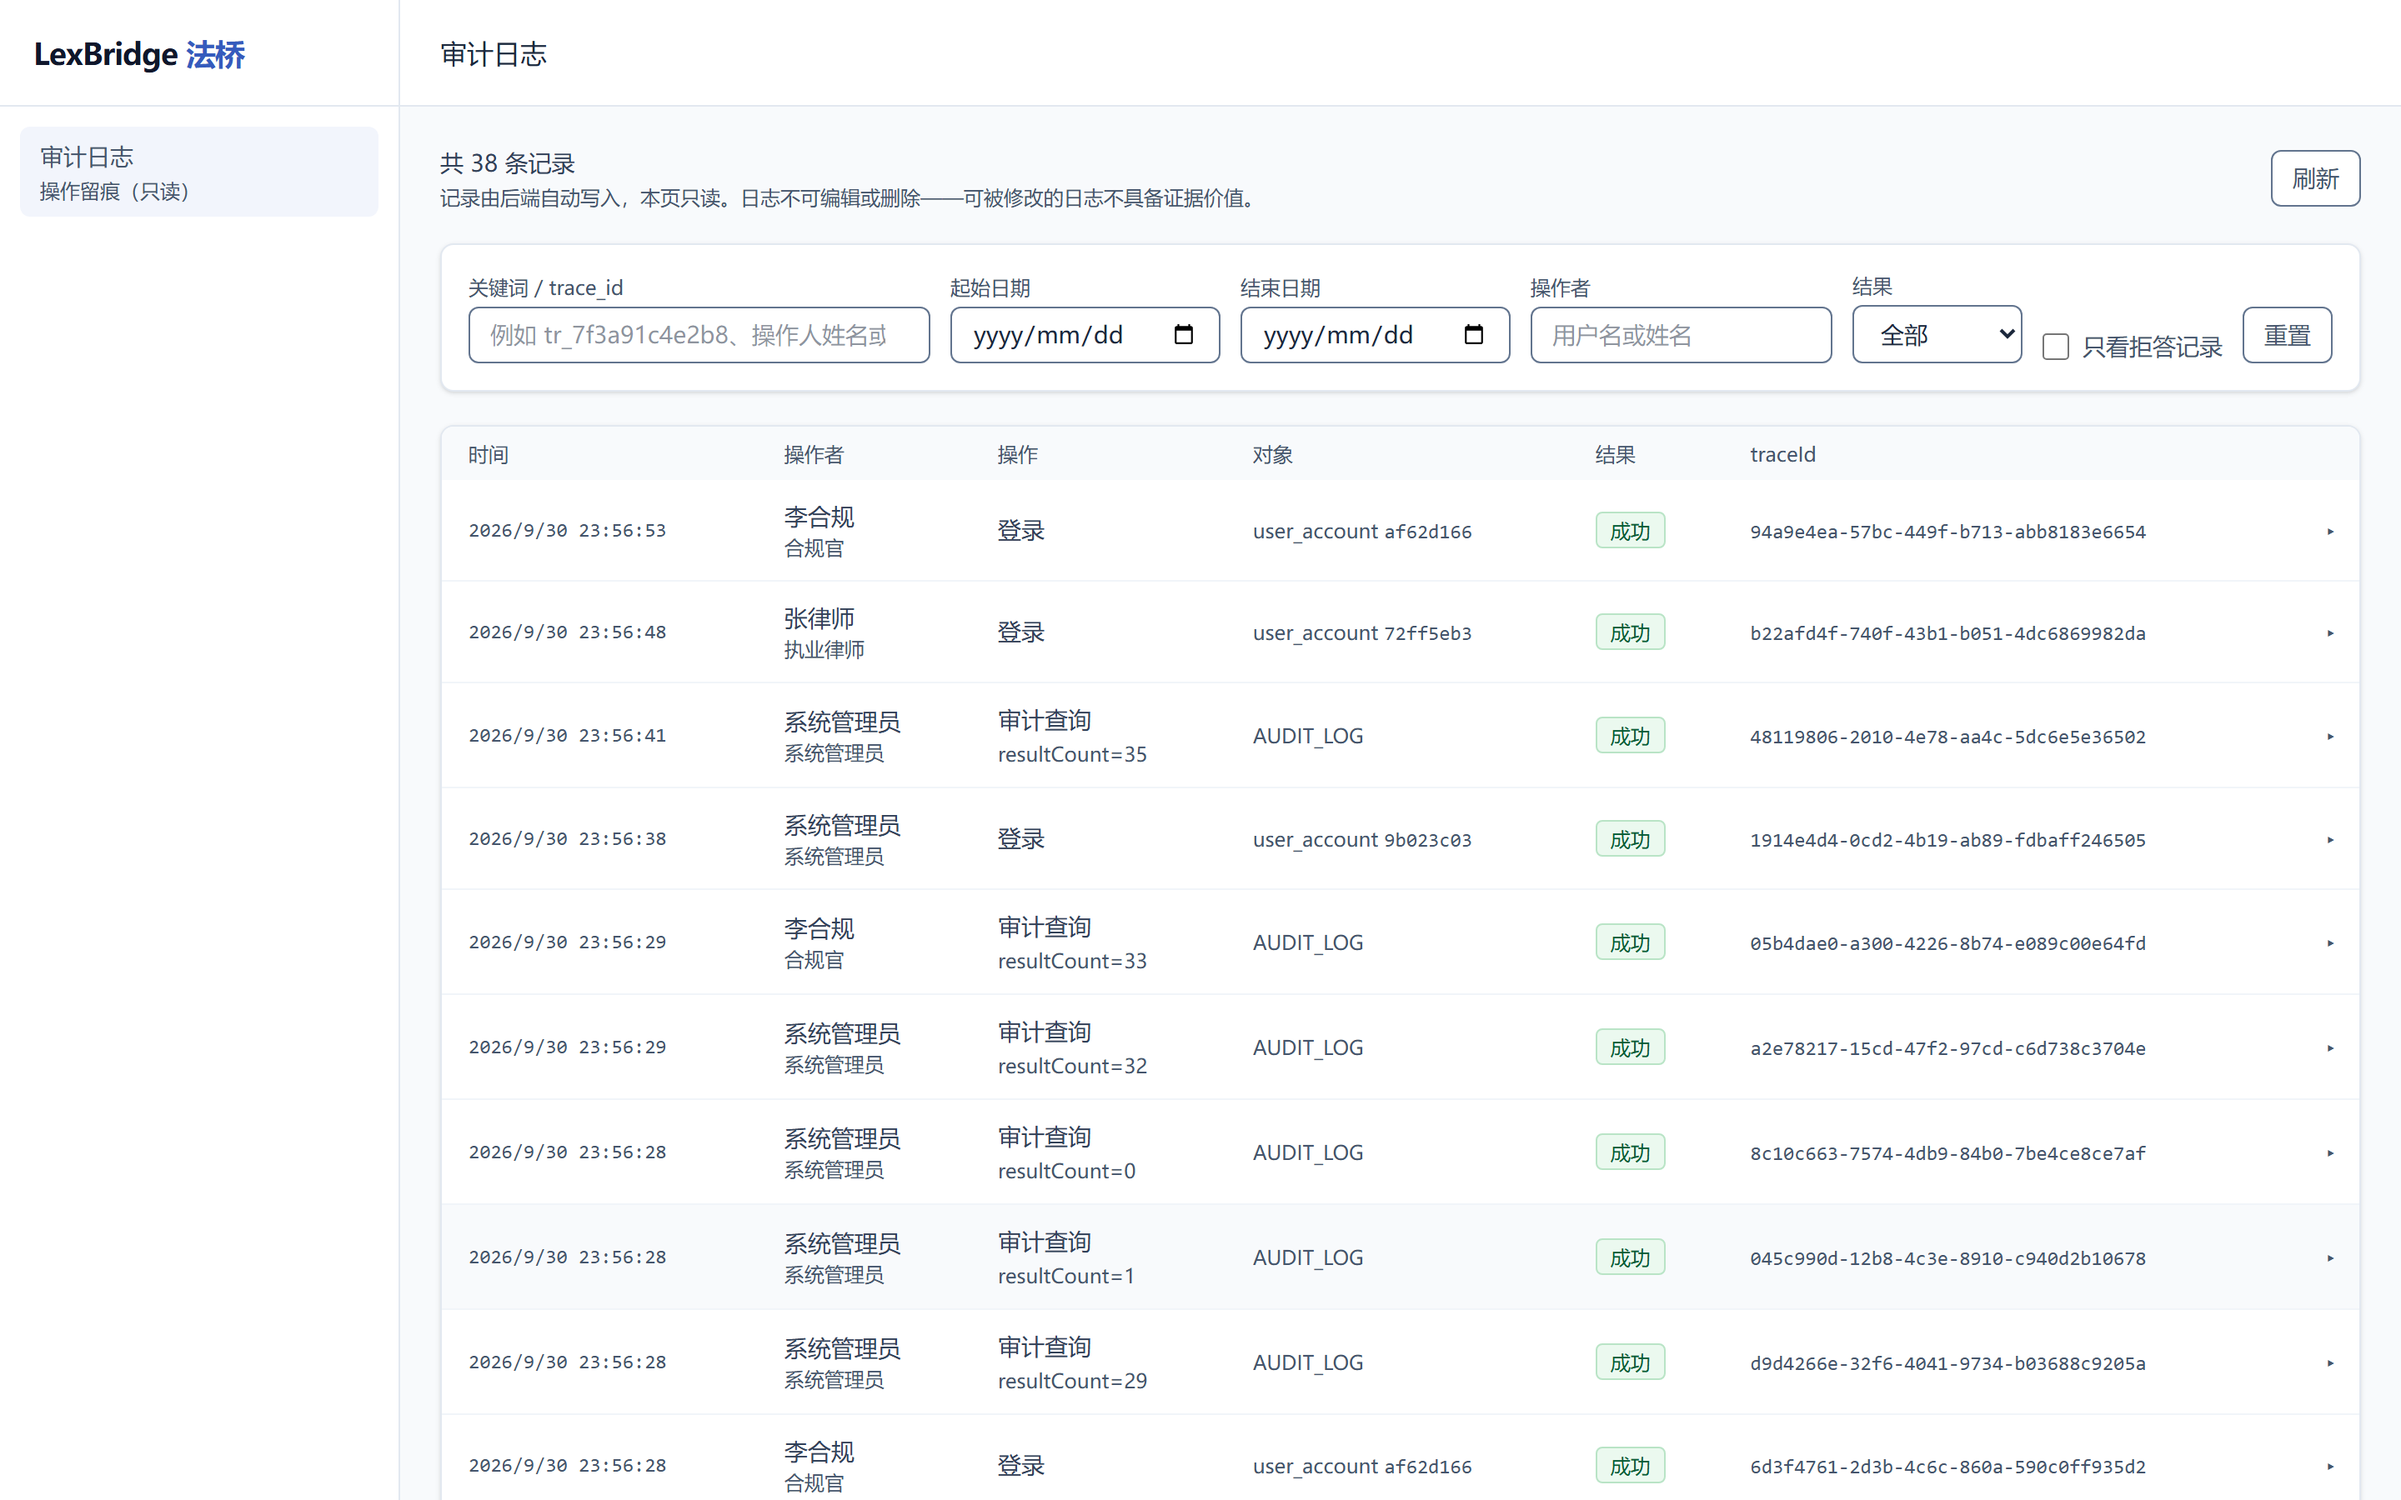
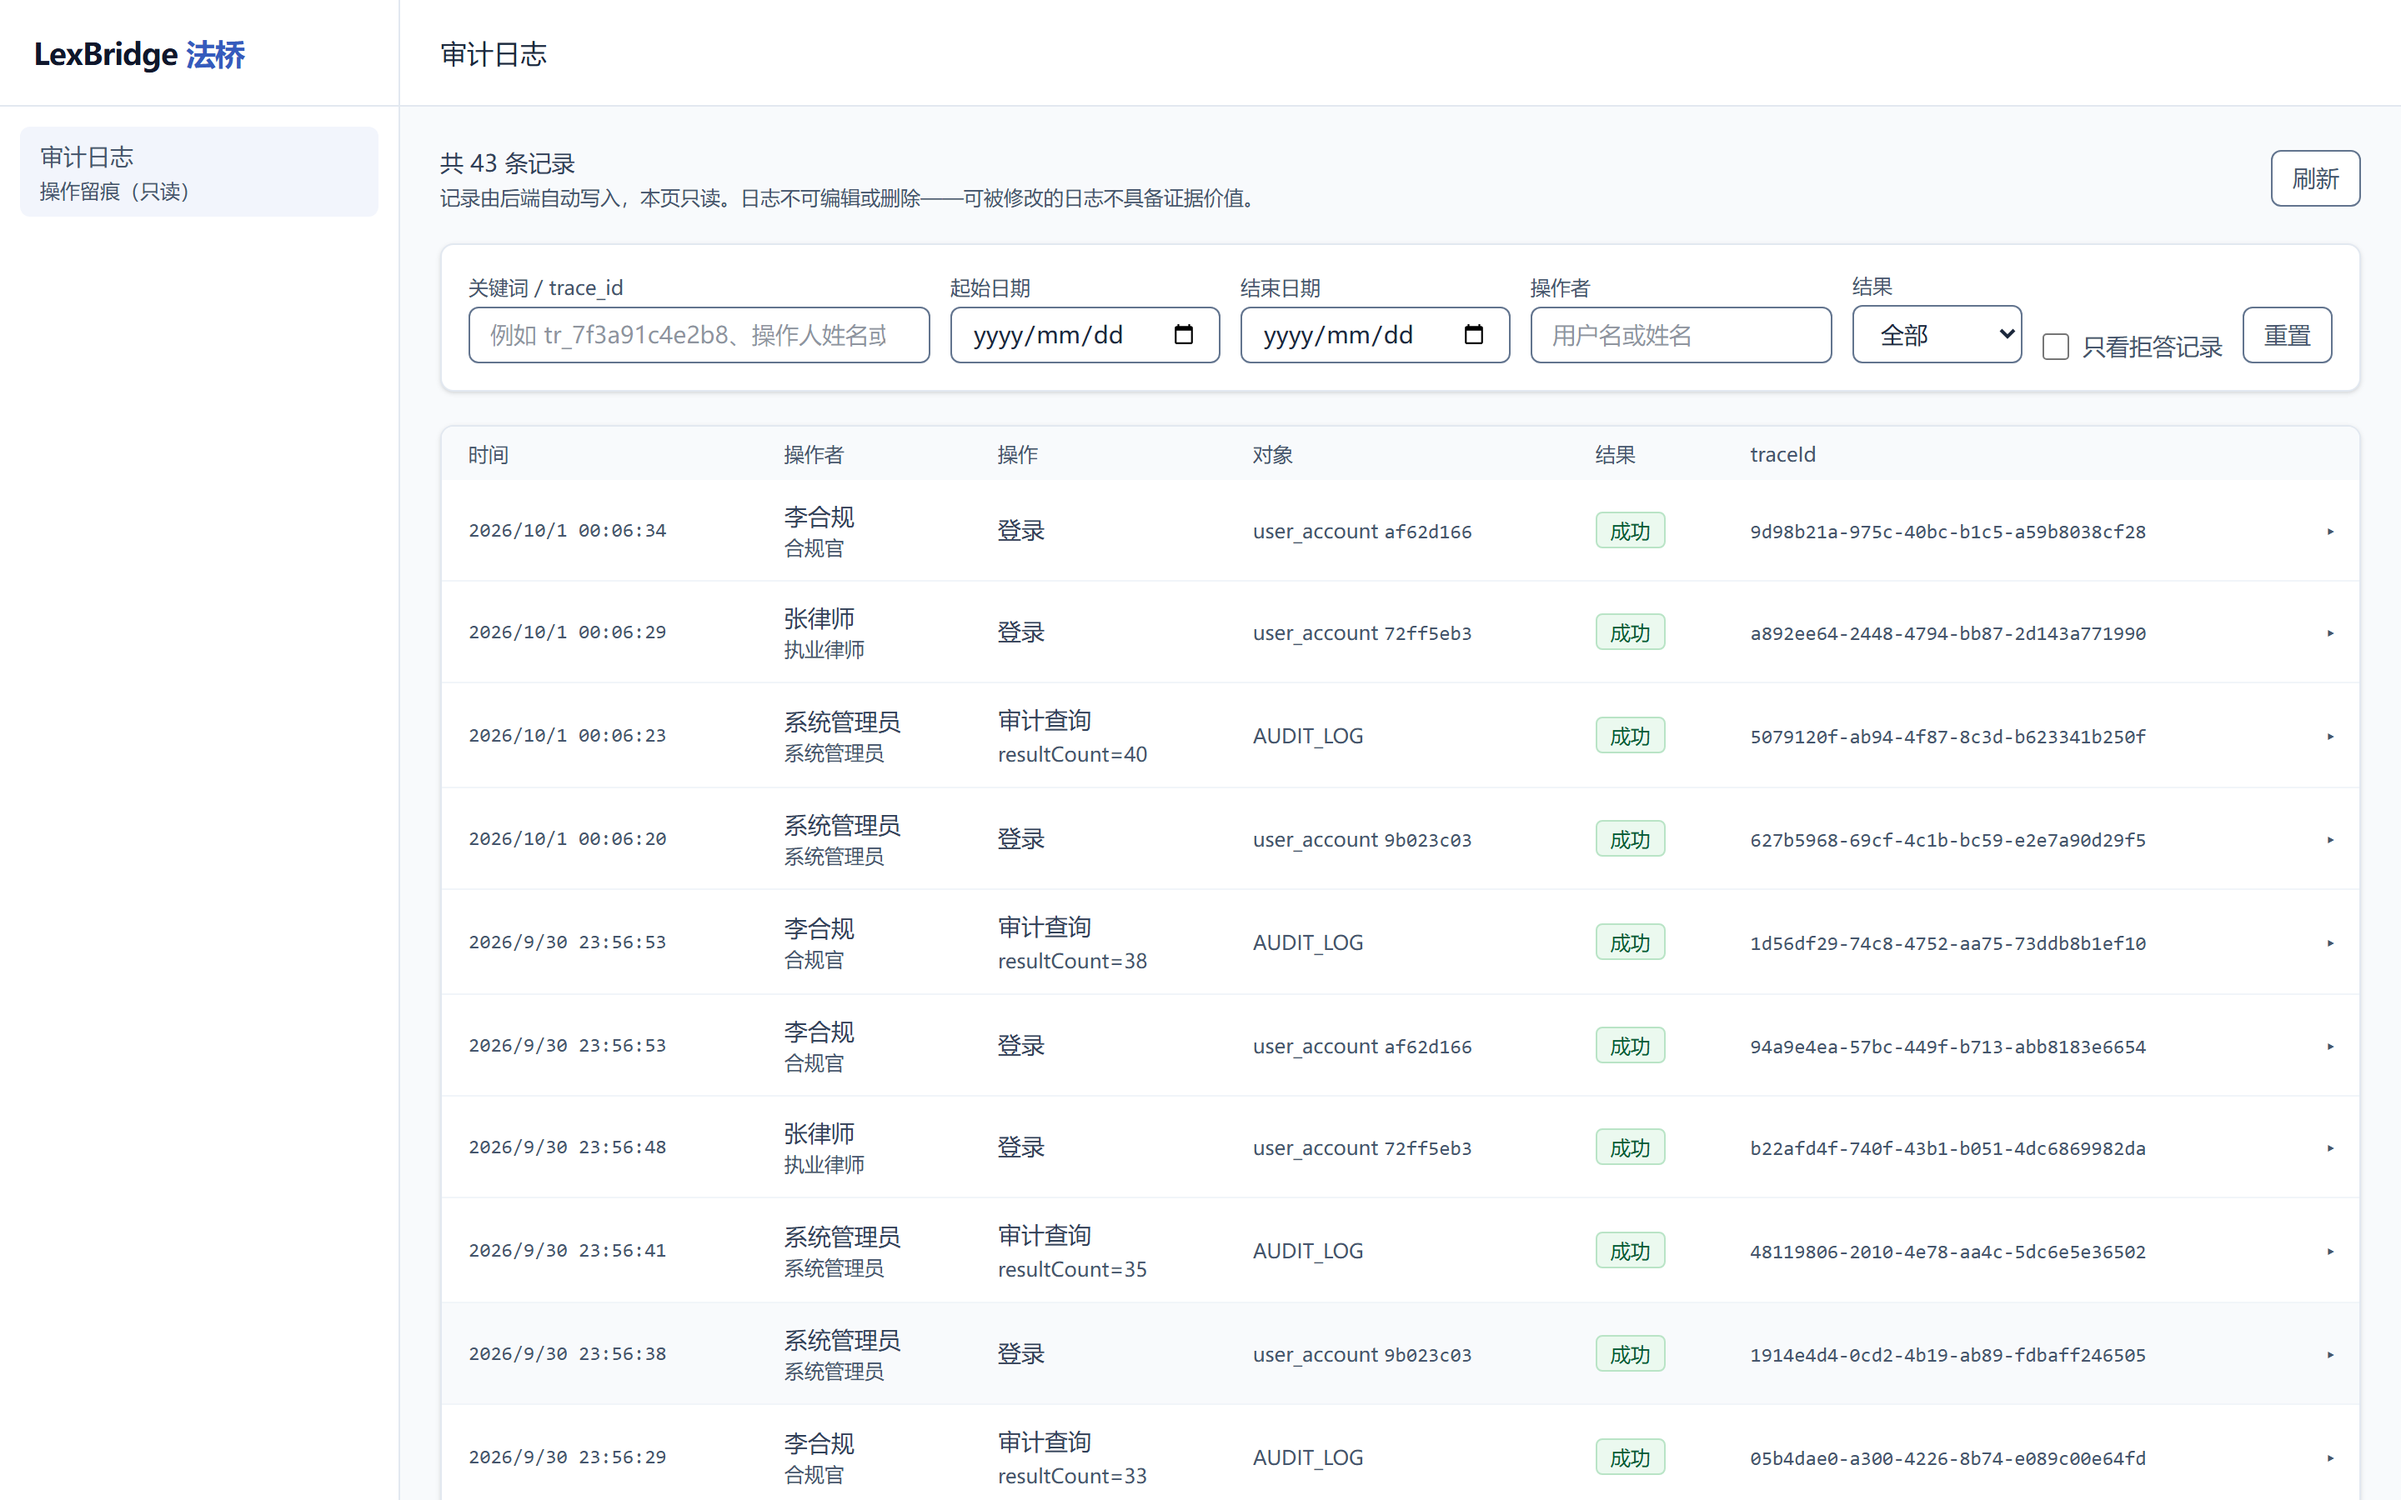
登录页指路多租户隔离：把最值得看的特性从"要读手册才知道"变成"看得见"
演示按钮都在 demo-law 租户下，而**隔离是两个租户之间的性质**——
不提示的话，访客点完三个角色就走了，不会想到再登一次另一个租户。
而多租户隔离（JWT → 应用层 → RLS → 检索层 → 审计的五层管道）恰恰是
这个项目最值得看的部分。

所以在那三个按钮下面加一句：用 acme-law 再登一次，它的审计日志里
看不到上面三个人做过的任何事。这一句把"需要读手册才知道"的事
变成了页面上看得见的事。

diff --git a/frontend/src/views/LoginView.vue b/frontend/src/views/LoginView.vue
@@ -176,6 +176,19 @@ async function submit(): Promise<void> {
           </div>
         </div>
 
+        <!--
+          指向多租户隔离 —— 本项目最值得看的特性，但它靠"多点一次"才看得见。
+          演示按钮都在 demo-law 租户下，而隔离是**两个租户之间**的性质：
+          不提示的话，访客看完三个角色就走了，不会想到再登一次另一个租户。
+        -->
+        <p class="mt-3 text-xs leading-relaxed text-slate-600">
+          想看点更实际的？在下面的表单里用
+          <code class="rounded bg-slate-100 px-1 font-mono">acme-law</code> /
+          <code class="rounded bg-slate-100 px-1 font-mono">admin</code> /
+          <code class="rounded bg-slate-100 px-1 font-mono">LexBridge@2026</code>
+          再登一次——那是另一家律所，它的审计日志里看不到上面这三个人做过的任何事。
+        </p>
+
         <div class="my-4 flex items-center gap-3">
           <span class="h-px flex-1 bg-slate-200"></span>
           <span class="text-xs text-slate-600">或手动填写</span>
